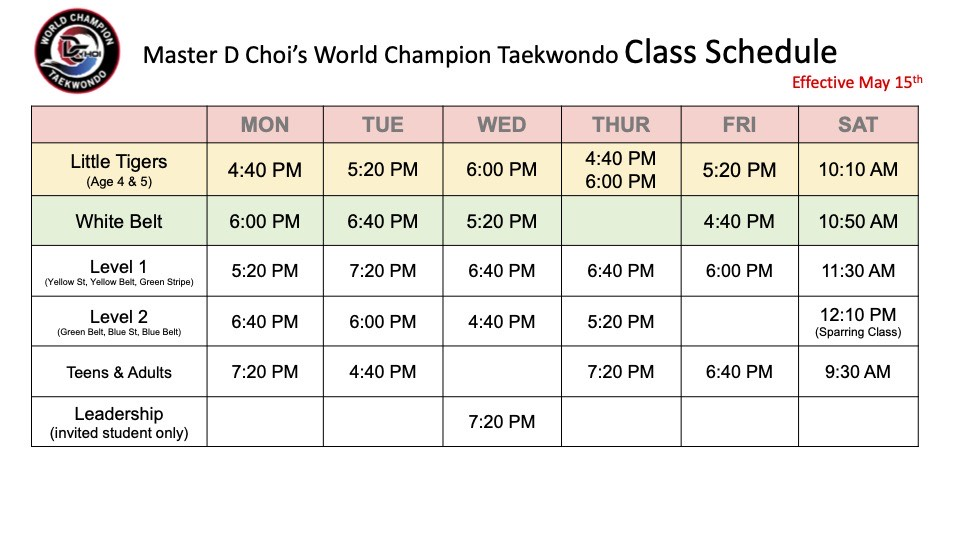
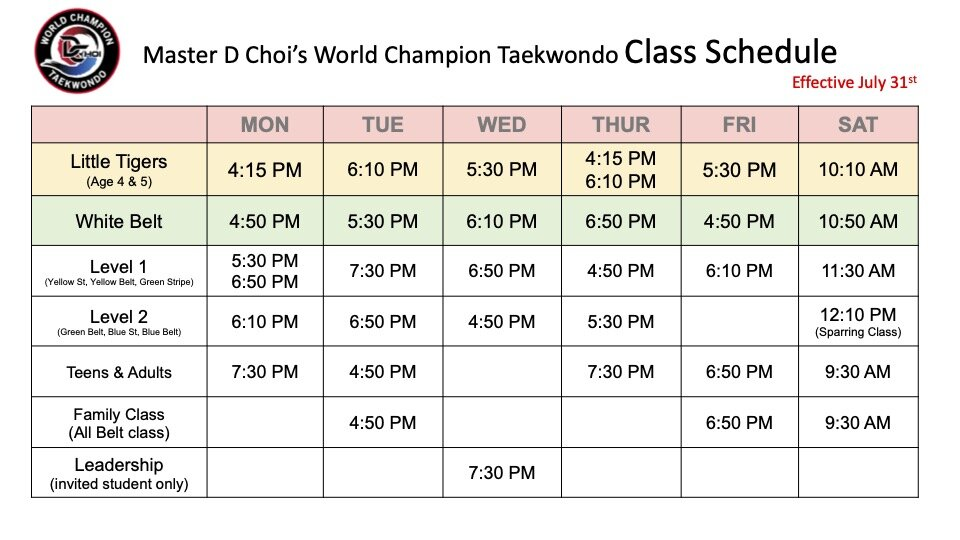
Compressed images and schedule image update

diff --git a/src/components/Promobar.jsx b/src/components/Promobar.jsx
@@ -1,18 +1,17 @@
-import './styles/Promobar.scss';
+import "./styles/Promobar.scss";
 
 export default function Promobar() {
   return (
-    <div className='promobar'>
-      <p className='promobar__text'>
-        GRAND OPENING 🎉{' '}
+    <div className="promobar">
+      <p className="promobar__text">
         <a
-          href='https://goo.gl/maps/UXEWZ2Ryi2AHWXwx9'
-          target='_blank'
-          rel='noreferrer'
+          href="https://goo.gl/maps/UXEWZ2Ryi2AHWXwx9"
+          target="_blank"
+          rel="noreferrer"
         >
           18310 W Airport Blvd Suite 700, Richmond, TX 77407
-        </a>{' '}
-        📞 <a href='tel:832-282-8633'>CLICK HERE TO CALL TODAY!</a>
+        </a>{" "}
+        📞 <a href="tel:346-350-5868">CLICK HERE TO CALL TODAY!</a>
       </p>
     </div>
   );

diff --git a/src/screens/Home.jsx b/src/screens/Home.jsx
@@ -8,7 +8,7 @@ export default function Home() {
       <div className='home__overlay'>
         <section className='home__header-text'>
           <h1>Welcome to Master D. Choi Taekwondo!</h1>
-          <h2>Coming to Richmond, TX</h2>
+          <h2>Now serving Richmond, Texas</h2>
           <Link to='/contact-us'>
             <button>Click to contact us!</button>
           </Link>
